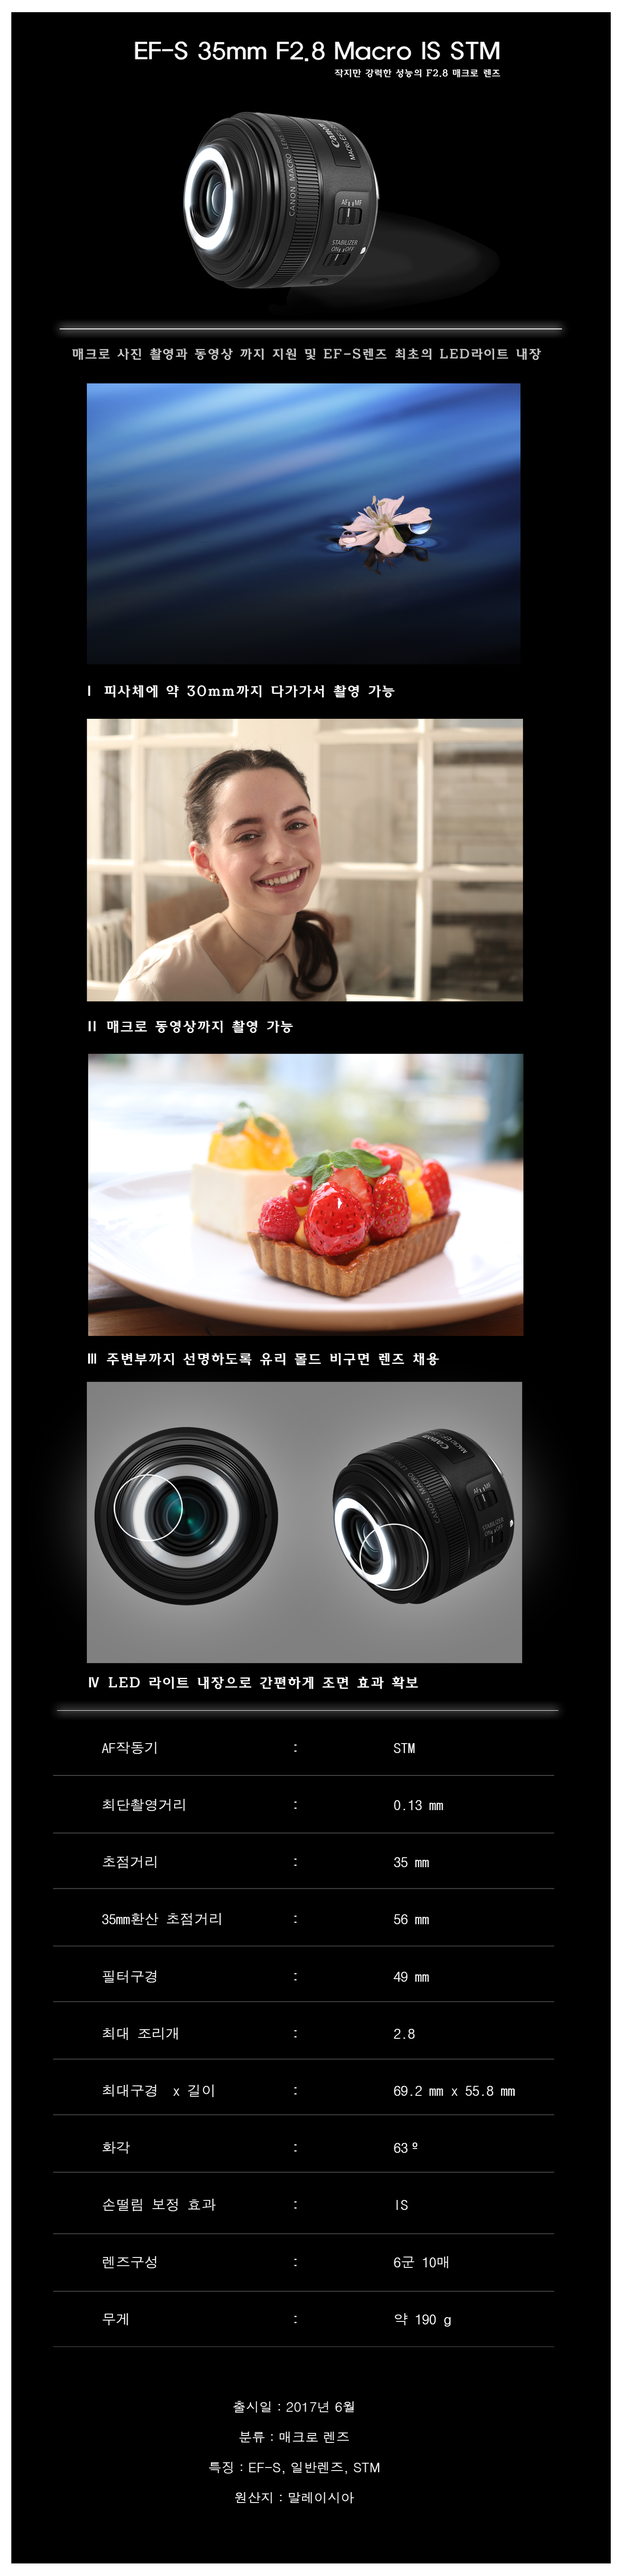
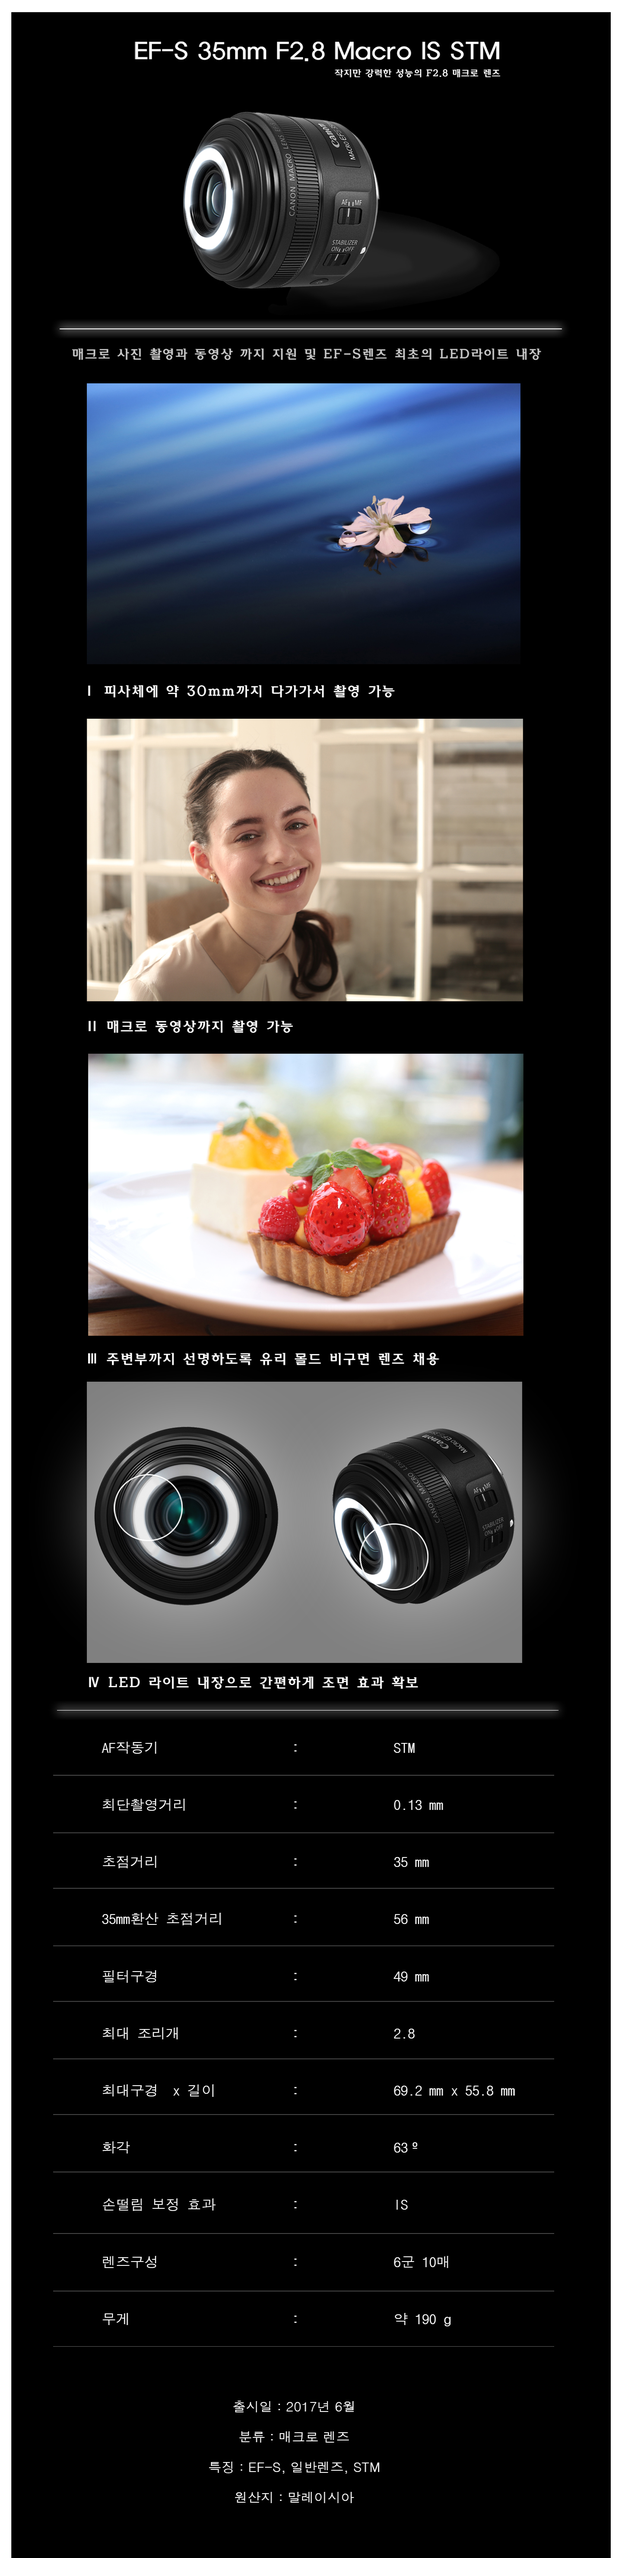
Add files via upload

diff --git a/p02.html b/p02.html
@@ -88,7 +88,6 @@
     .page{
       position: relative;
       width: 1400px;
-      height: 3000px;
       left: 50%;
       transform: translateX(-50%);
     }
@@ -110,7 +109,7 @@
 
    <section class="bodywrap">
      <div class="page">
-     <img src="images/sub.png">
+     <img src="images/p02.jpg">
    </div>
    </section>
 

diff --git a/p03.html b/p03.html
@@ -88,7 +88,6 @@
     .page{
       position: relative;
       width: 1400px;
-      height: 3000px;
       left: 50%;
       transform: translateX(-50%);
     }
@@ -110,7 +109,7 @@
 
    <section class="bodywrap">
      <div class="page">
-     <img src="images/sub.png">
+     <img src="images/p03.jpg">
    </div>
    </section>
 

diff --git a/p01.html b/p01.html
@@ -88,7 +88,6 @@
     .page{
       position: relative;
       width: 1400px;
-      height: 3000px;
       left: 50%;
       transform: translateX(-50%);
     }
@@ -112,7 +111,7 @@
 
    <section class="bodywrap">
      <div class="page">
-    <img src="images/sub.png">
+    <img src="images/p01.jpg">
    </div>
    </section>
 
